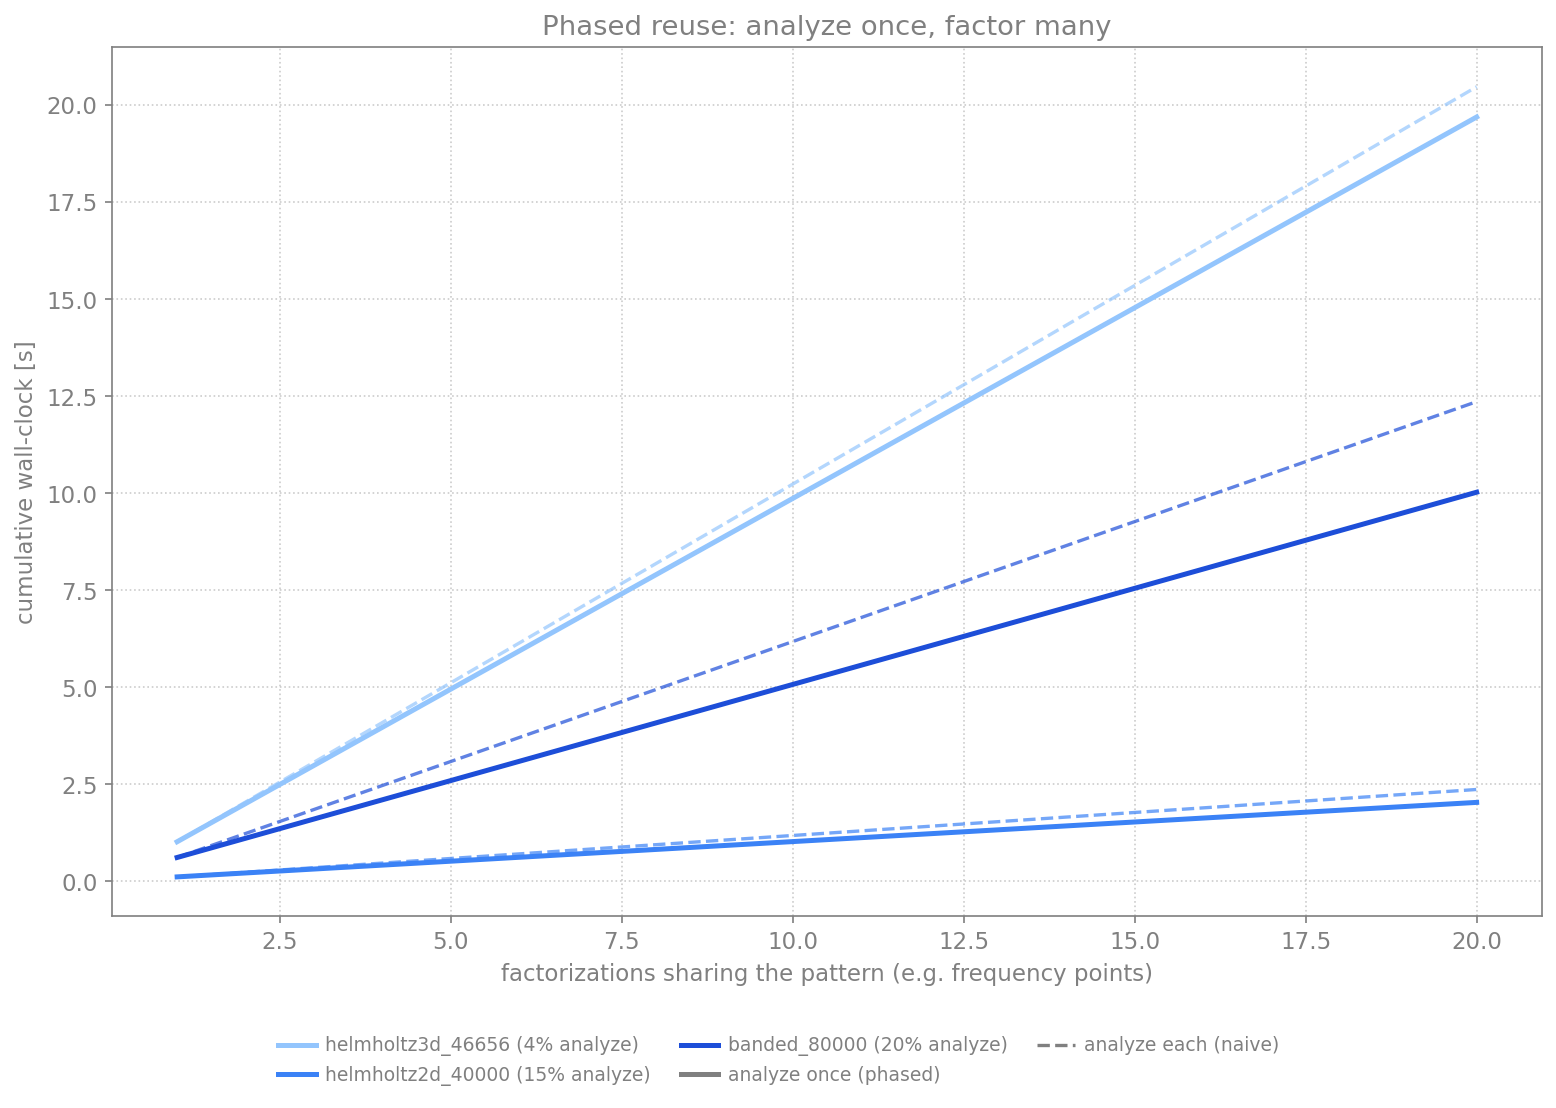
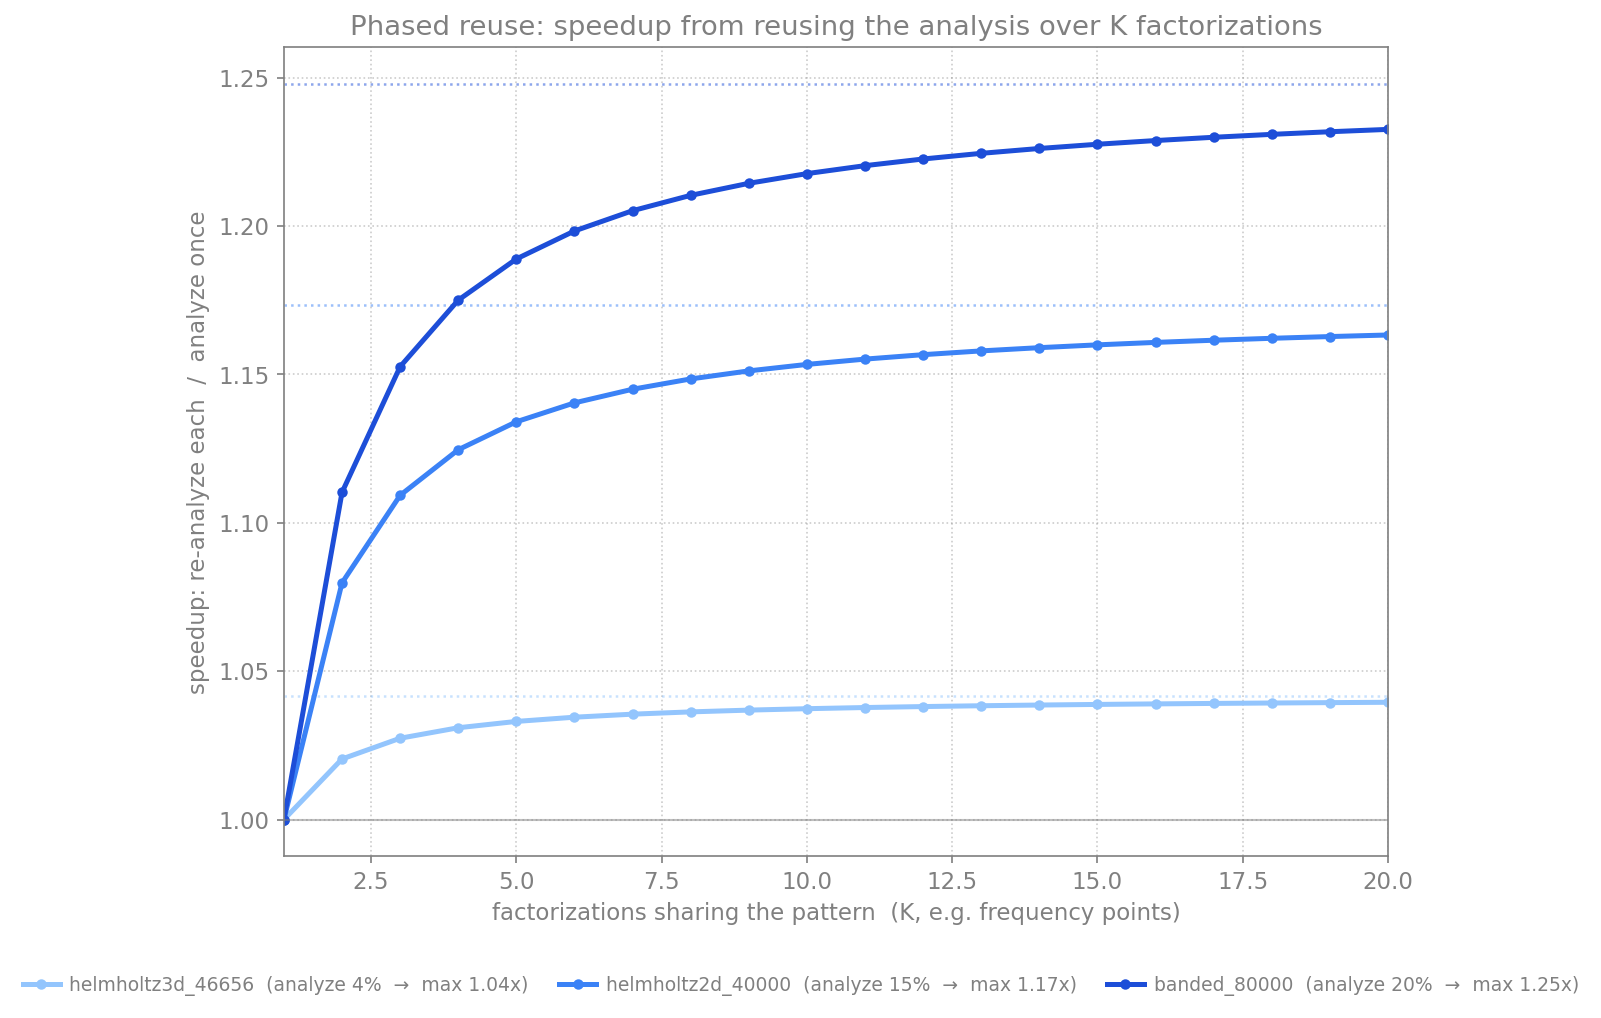
phased_reuse: Speedup-vs-K Visualisierung (klarer als kumulative Doppel-Linien) + README

diff --git a/benches/phased_reuse.py b/benches/phased_reuse.py
@@ -36,19 +36,21 @@ def main():
 
     bench_style.setup()
     ks = np.arange(1, 21)
-    fig, ax = plt.subplots(figsize=(10.5, 6.8))
+    fig, ax = plt.subplots(figsize=(8.5, 6.4))
     for r, c in zip(sel, COLORS):
         a, f = r["analyze_ms"], r["factor_ms"]
-        once = a + ks * f
-        each = ks * (a + f)
-        label = f"{r['name']} ({100*a/(a+f):.0f}% analyze)"
-        ax.plot(ks, each / 1000, ls="--", color=c, lw=1.6, alpha=0.7)
-        ax.plot(ks, once / 1000, ls="-", color=c, lw=2.4, label=label)
-    ax.plot([], [], ls="-", color=GRAY, lw=2.4, label="analyze once (phased)")
-    ax.plot([], [], ls="--", color=GRAY, lw=1.6, label="analyze each (naive)")
-    ax.set_xlabel("factorizations sharing the pattern (e.g. frequency points)")
-    ax.set_ylabel("cumulative wall-clock [s]")
-    ax.set_title("Phased reuse: analyze once, factor many")
+        # Speedup of reusing the analysis vs re-analyzing each of K factorizations:
+        # K*(a+f) / (a + K*f), rising from 1 to the asymptote 1 + a/f.
+        speedup = ks * (a + f) / (a + ks * f)
+        asymp = (a + f) / f
+        ax.plot(ks, speedup, color=c, lw=2.4, marker="o", ms=4,
+                label=f"{r['name']}  (analyze {100*a/(a+f):.0f}%  →  max {asymp:.2f}x)")
+        ax.axhline(asymp, color=c, ls=":", lw=1.2, alpha=0.5)
+    ax.axhline(1.0, color=GRAY, lw=1, alpha=0.5)
+    ax.set_xlabel("factorizations sharing the pattern  (K, e.g. frequency points)")
+    ax.set_ylabel("speedup: re-analyze each  /  analyze once")
+    ax.set_title("Phased reuse: speedup from reusing the analysis over K factorizations")
+    ax.set_xlim(1, ks[-1])
     ax.grid(True, ls=":", alpha=0.4)
     out = path.parent / "phased_reuse.png"
     bench_style.legend_below(fig, ax=ax)

diff --git a/README.md b/README.md
@@ -122,11 +122,10 @@ small slice (larger on sparse circuit-like matrices such as `memplus`) - and is
 A frequency sweep or Newton iteration factors many value sets that share one
 sparsity pattern. `LdltSymbolic::analyze` runs the fill-reducing ordering and
 symbolic analysis once (the value-independent part); each step then re-runs only
-the numeric factor. Cumulative cost over K factorizations: analyze-once
-(`analyze + K·factor`) vs analyze-each. Amortizing the analysis saves ~5-25%
-depending on the fill profile - more for low-fill 2D/banded (analysis ~20% of a
-solve), less for factor-dominated 3D (~5%) - and is the natural workflow for
-value sweeps.
+the numeric factor. The speedup of reusing that analysis over K factorizations
+(vs re-analyzing each) rises from 1x at K=1 to its asymptote `1 + analyze/factor`:
+up to ~1.25x for low-fill banded/2D (analysis ~20% of a solve), ~1.04x for
+factor-dominated 3D - and it is the natural workflow for value sweeps.
 
 ### A-priori memory estimate vs measured
 